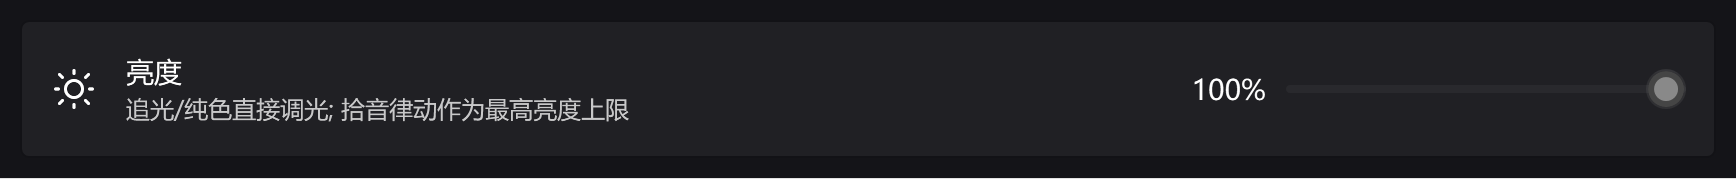
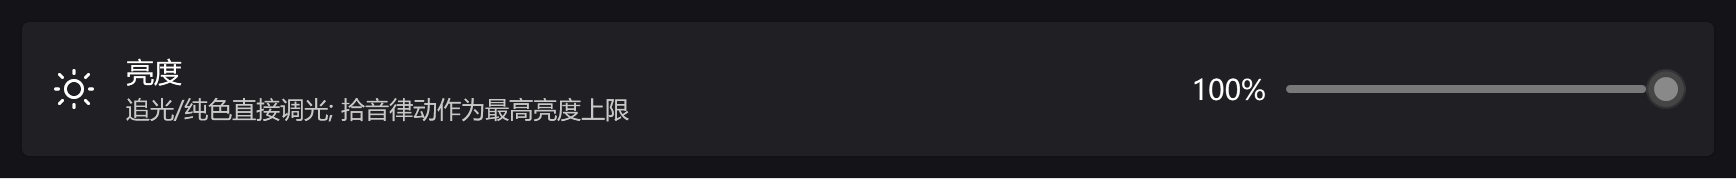
feat(ui): 滑块禁用态保留灰色进度 (用户拍板: 禁用也要看得到值)
第四轮先把禁用态填充整层收起来, 用户要求保留进度 -> 改回"保留填充、只换灰":
填充与拇指一起用 TextFillColorDisabledBrush (沿用"填充色 = 拇指中心色"的既有规则).

关键约束: 填充的禁用色与轨道底 (ControlFillColorDisabledBrush) 必须**不是同一个键** --
早先同键 -> 同色两层叠加, 只有填充那一段 (x >= 半个拇指) 亮一档, 左端留一条暗条 = 用户报的"缺一截".
现在两者差 ~8.5 倍亮度 (深色 #5DFFFFFF vs #0BFFFFFF), 深/浅主题各自成立.

探针断言同步改写: 禁用态填充层必须 Visible + 填充色 == TextFillColorDisabledBrush + != 轨道底色
(这条把"不许同色"钉死). 222 OK / 0 FAIL.

出图复核: 亮度滑块禁用态中线像素分段由"左端暗条"变成均匀灰进度 ([2..177]#64646464,
轨道底 #18181818). 文档: docs/SLIDER_TEMPLATE.md 3/5.1/6/8.

Changed region(s): [[0.7154, 0.4749, 0.9643, 0.5307]]

diff --git a/managed/AmbientLight/Styles/SliderStyle.xaml b/managed/AmbientLight/Styles/SliderStyle.xaml
@@ -21,6 +21,8 @@
            `SliderSkin.Fill="Track"` (默认) —— 从**最小值**到拇指 (贴左边缘);
            `SliderSkin.Fill="Anchor"`          —— 从**中性值**向两侧 (增益/倍率类), 需 `SliderSkin.Anchor`;
            `SliderSkin.Fill="None"`            —— **不画** (轨道本身就是色带, 如纯色拾色器的色调/饱和度)。
+         填充色 = **拇指中心色** (`SliderThumbBackground`), 禁用时两边一起换成禁用色 (`TextFillColorDisabledBrush`)
+         → 天然随主题变, 不需要另维护一套深浅色刷子 ✓
          ⚠ 维护约定:
            1. 引上游资源一律 `DynamicResource` (换主题时 WPF-UI 会整个替换主题字典,
               `StaticResource` 会钉住旧实例 —— 本项目踩过);
@@ -115,15 +117,20 @@
                 <Setter TargetName="SelectionRangeHost" Property="Visibility" Value="Collapsed" />
             </Trigger>
 
-            <!-- ③ 禁用态 (上游缺这一档): 轨道底 / 拇指换禁用色, 并把进度填充**整条收起来** ——
-                 填充与轨道同色时两者糊成一片, 看着就像进度条"缺了一截"✗
-                 (禁用信息由拇指位置 + 旁边的数值文字表达, 够了) -->
+            <!-- ③ 禁用态 (上游缺这一档): 轨道底 / 拇指 / 进度填充一起换成**禁用色** ——
+                 漏掉任何一种, 禁用滑块都会拖着一截彩色进度条, 看着像"还能动" ✗。
+                 ⚠ 填充的禁用色必须与**轨道底**是不同的键: 早先两者都用 `ControlFillColorDisabledBrush`
+                 ⇒ 同色叠加, 只有填充那一段 (`x ≥ 半个拇指`) 亮一档, 左端留一条暗条 = 用户报的"缺一截" ✗。
+                 这里沿用"**填充色 = 拇指中心色**"这条既有规则: 禁用时拇指是 `TextFillColorDisabledBrush`,
+                 填充就用它 (中灰, 与轨道底差 8.5 倍亮度 → 进度一眼可读, 且深浅主题各自成立) ✓
+                 (注: 滑块**不禁用**却设了 `Fill=None` 时, 填充由上面 ② 整层收起, 与此无关) -->
             <Trigger Property="IsEnabled" Value="False">
                 <Setter TargetName="TrackBackground" Property="Background"
                         Value="{DynamicResource ControlFillColorDisabledBrush}" />
                 <Setter TargetName="Thumb" Property="Foreground"
                         Value="{DynamicResource TextFillColorDisabledBrush}" />
-                <Setter TargetName="SelectionRangeHost" Property="Visibility" Value="Collapsed" />
+                <Setter TargetName="PART_SelectionRange" Property="Fill"
+                        Value="{DynamicResource TextFillColorDisabledBrush}" />
             </Trigger>
         </ControlTemplate.Triggers>
     </ControlTemplate>

diff --git a/tools/UiLoadProbe/Program.cs b/tools/UiLoadProbe/Program.cs
@@ -1648,12 +1648,23 @@ static void Run()
                       $"None 模式 (色带轨道): 挂点关={!slNone.IsSelectionRangeEnabled} · " +
                       $"填充层收起={RangeHostOf(slNone)?.Visibility} = {noneMode}");
 
-    // ⑤ 禁用态: 轨道/拇指换禁用色 + 填充层收起 (填充与轨道同色会糊成一片 = 看着"缺一截" ✗)
+    // ⑤ 禁用态: 轨道/拇指换成禁用色, **进度填充要在** (只是变成灰的) —— 但填充色必须与**轨道底**
+    //    是不同的键! 早先两者都用 `ControlFillColorDisabledBrush` ⇒ 同色叠加, 只有填充那一段亮一档,
+    //    左端留一条暗条 = 用户报的"缺一截" ✗ (这条断言就是钉住那个坑的)
     var slDisabled = new Slider { Minimum = 0, Maximum = 100, Value = 50, Width = 200, IsEnabled = false };
     HostSlider(slDisabled);
-    bool disabledMode = RangeHostOf(slDisabled) is { Visibility: Visibility.Collapsed };
+    var dPart = PartOf(slDisabled);
+    var dTrack = slDisabled.Template?.FindName("TrackBackground", slDisabled) as System.Windows.Controls.Border;
+    var disabledFillKey = Application.Current.TryFindResource("TextFillColorDisabledBrush") as SolidColorBrush;
+    Color dFill = (dPart?.Fill as SolidColorBrush)?.Color ?? Colors.Transparent;
+    Color dTrackColor = (dTrack?.Background as SolidColorBrush)?.Color ?? Colors.Transparent;
+    bool disabledMode = RangeHostOf(slDisabled) is { Visibility: Visibility.Visible }
+                        && dPart is { ActualWidth: > 20 } && disabledFillKey is not null
+                        && dFill == disabledFillKey.Color
+                        && dFill != dTrackColor;
     Console.WriteLine((disabledMode ? "OK   " : "FAIL ") +
-                      $"禁用态: 填充层收起={RangeHostOf(slDisabled)?.Visibility} = {disabledMode}");
+                      $"禁用态: 填充层={RangeHostOf(slDisabled)?.Visibility} 填充={dFill} (期望=拇指禁用色 " +
+                      $"{disabledFillKey?.Color}) · 轨道底={dTrackColor} (两者必须不同, 否则又会「缺一截」) = {disabledMode}");
 
     // ⑥ **重新模板化后不能掉状态**: 换宿主 (等价于主题切换重建模板) 后, None 的收起必须还在 ——
     //    前三轮那套"代码钩子设 Visibility"就是在这里丢掉的 (用户看到的"仍被盖" ✗)

diff --git a/tools/UiLoadProbe/SliderDiag.cs b/tools/UiLoadProbe/SliderDiag.cs
@@ -78,7 +78,7 @@ internal static class SliderDiag
         brightRow.IsEnabled = false;
         host.UpdateLayout();
         Console.WriteLine($"[3] 亮度行禁用: Slider.IsEnabled={brightSlider.IsEnabled} 填充层={Describe(RangeHostOf(brightSlider))}" +
-                          $" (期望 Collapsed)");
+                          $" (期望 Visible: 灰色的进度条)");
 
         // ---- 出图 + 沿线扫像素 ----
         ShotInPlace(brightRow, $"{pathPrefix}_bright_disabled.png", "亮度行 (禁用)");
